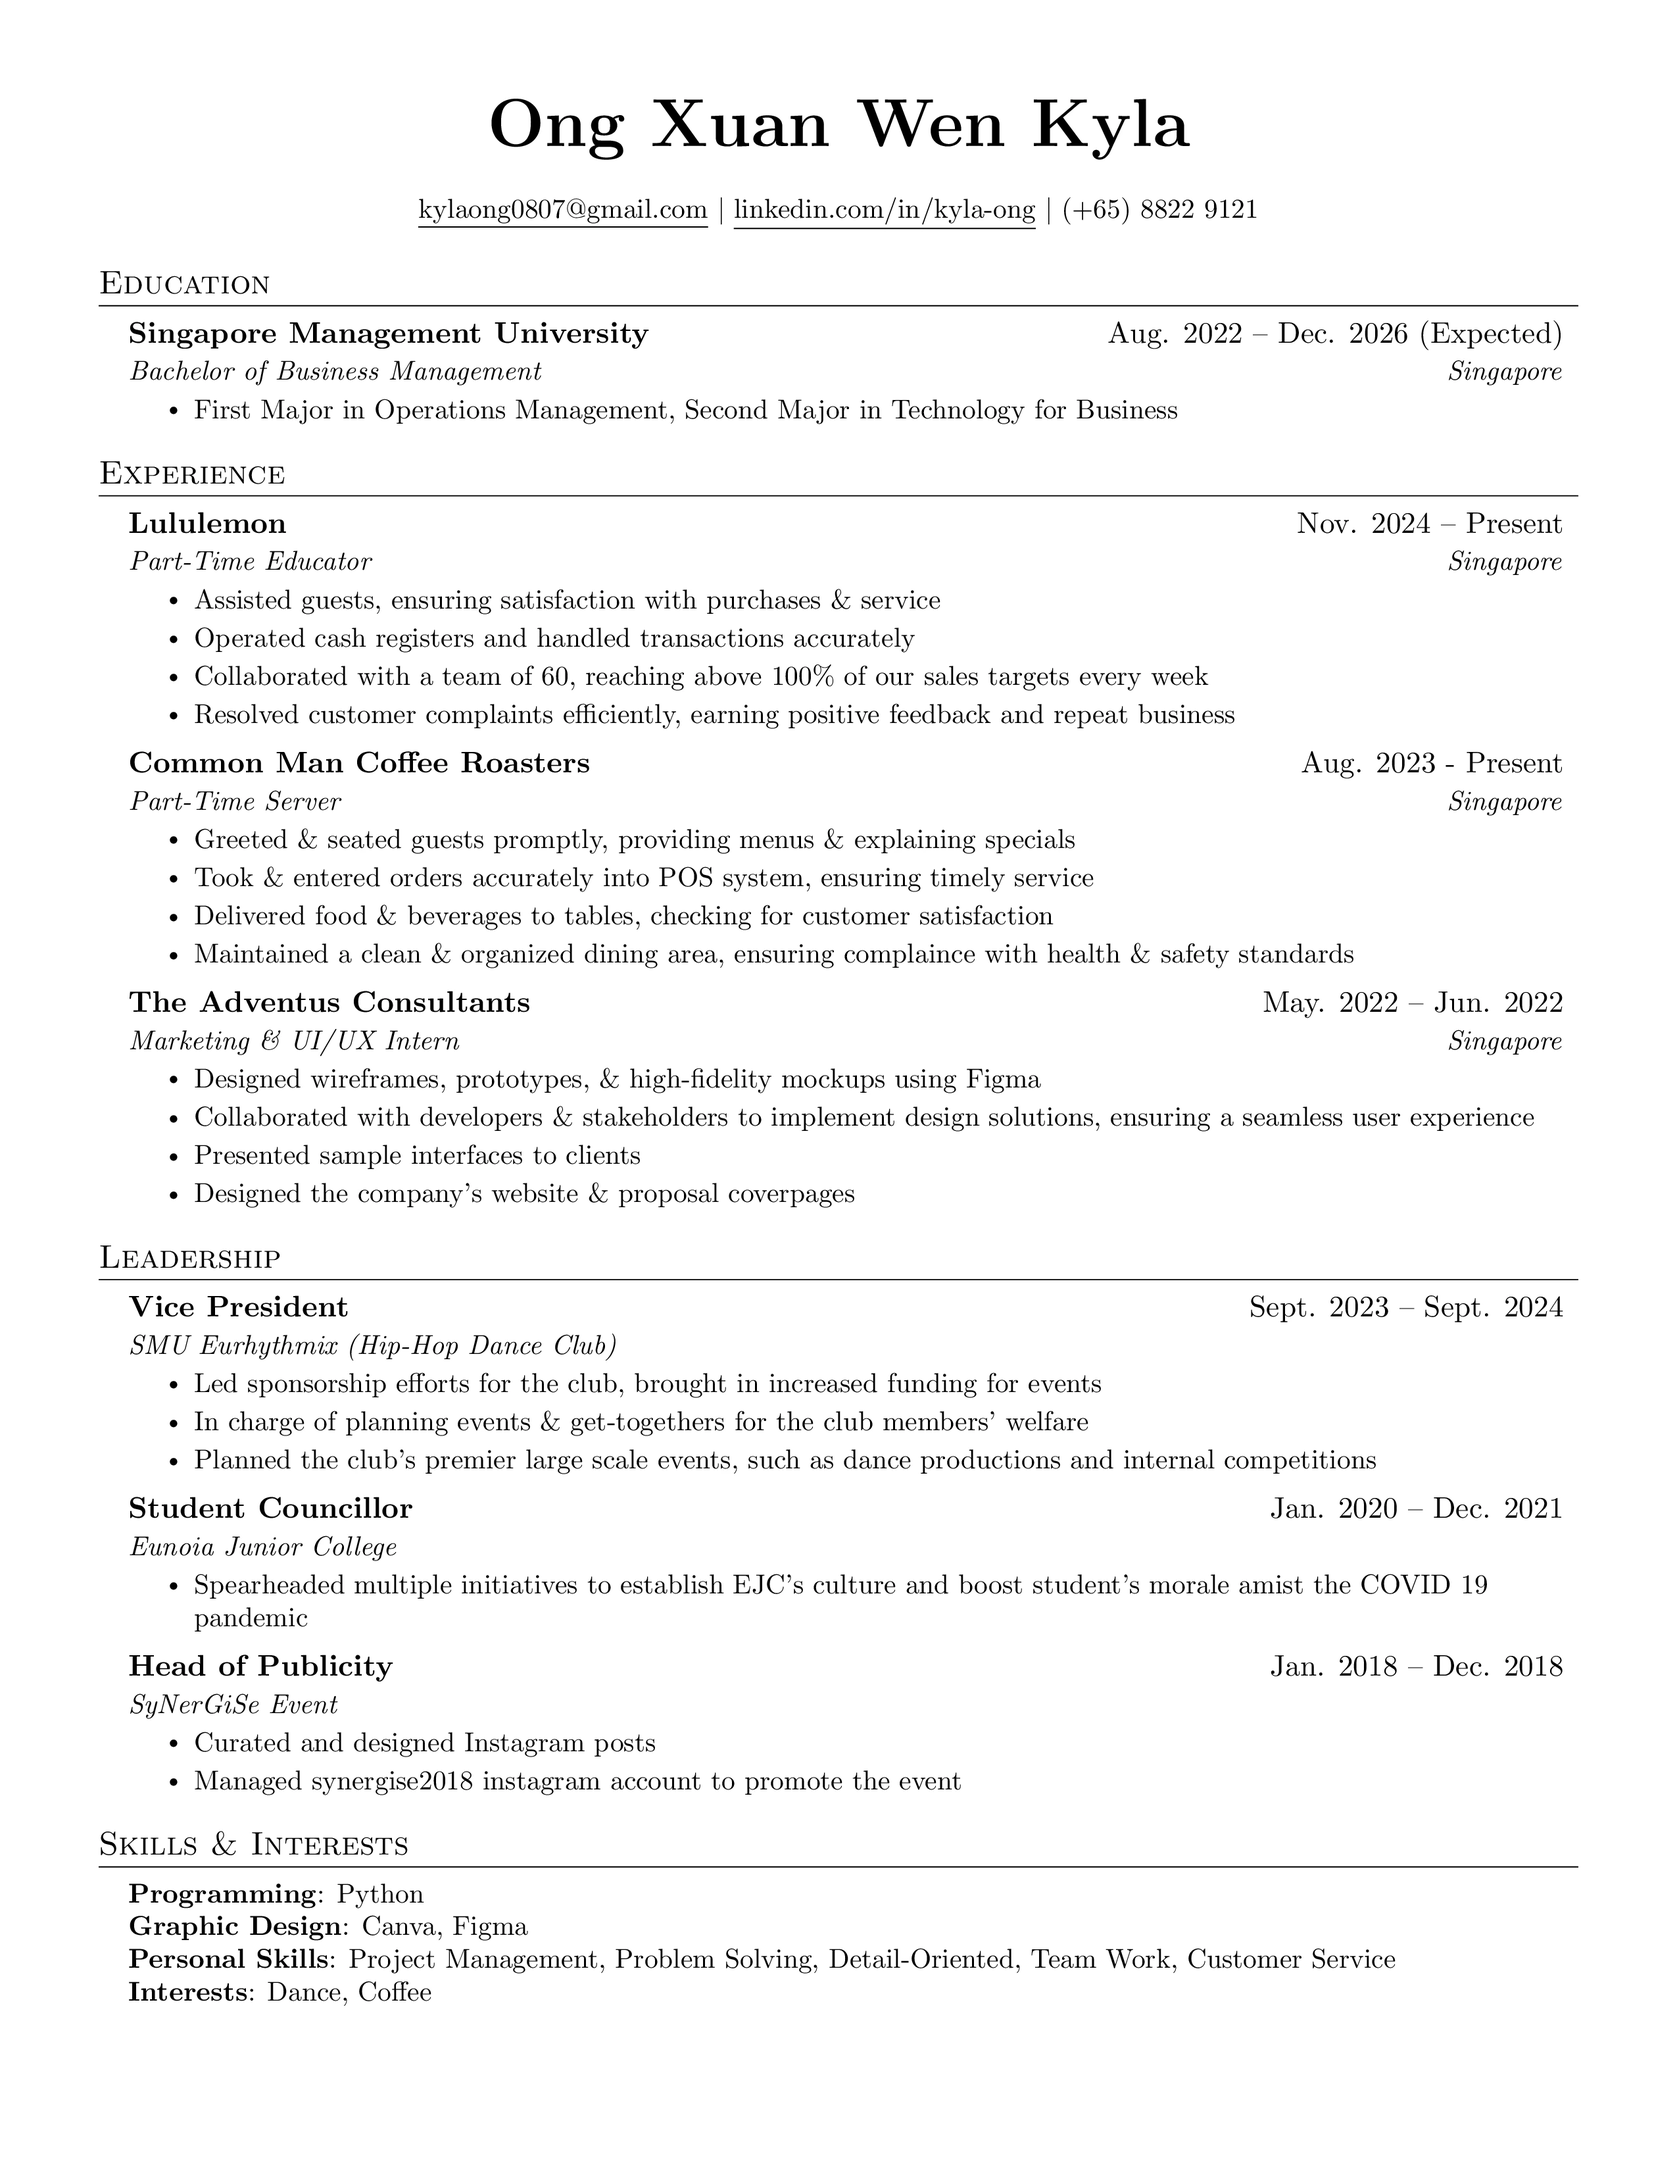
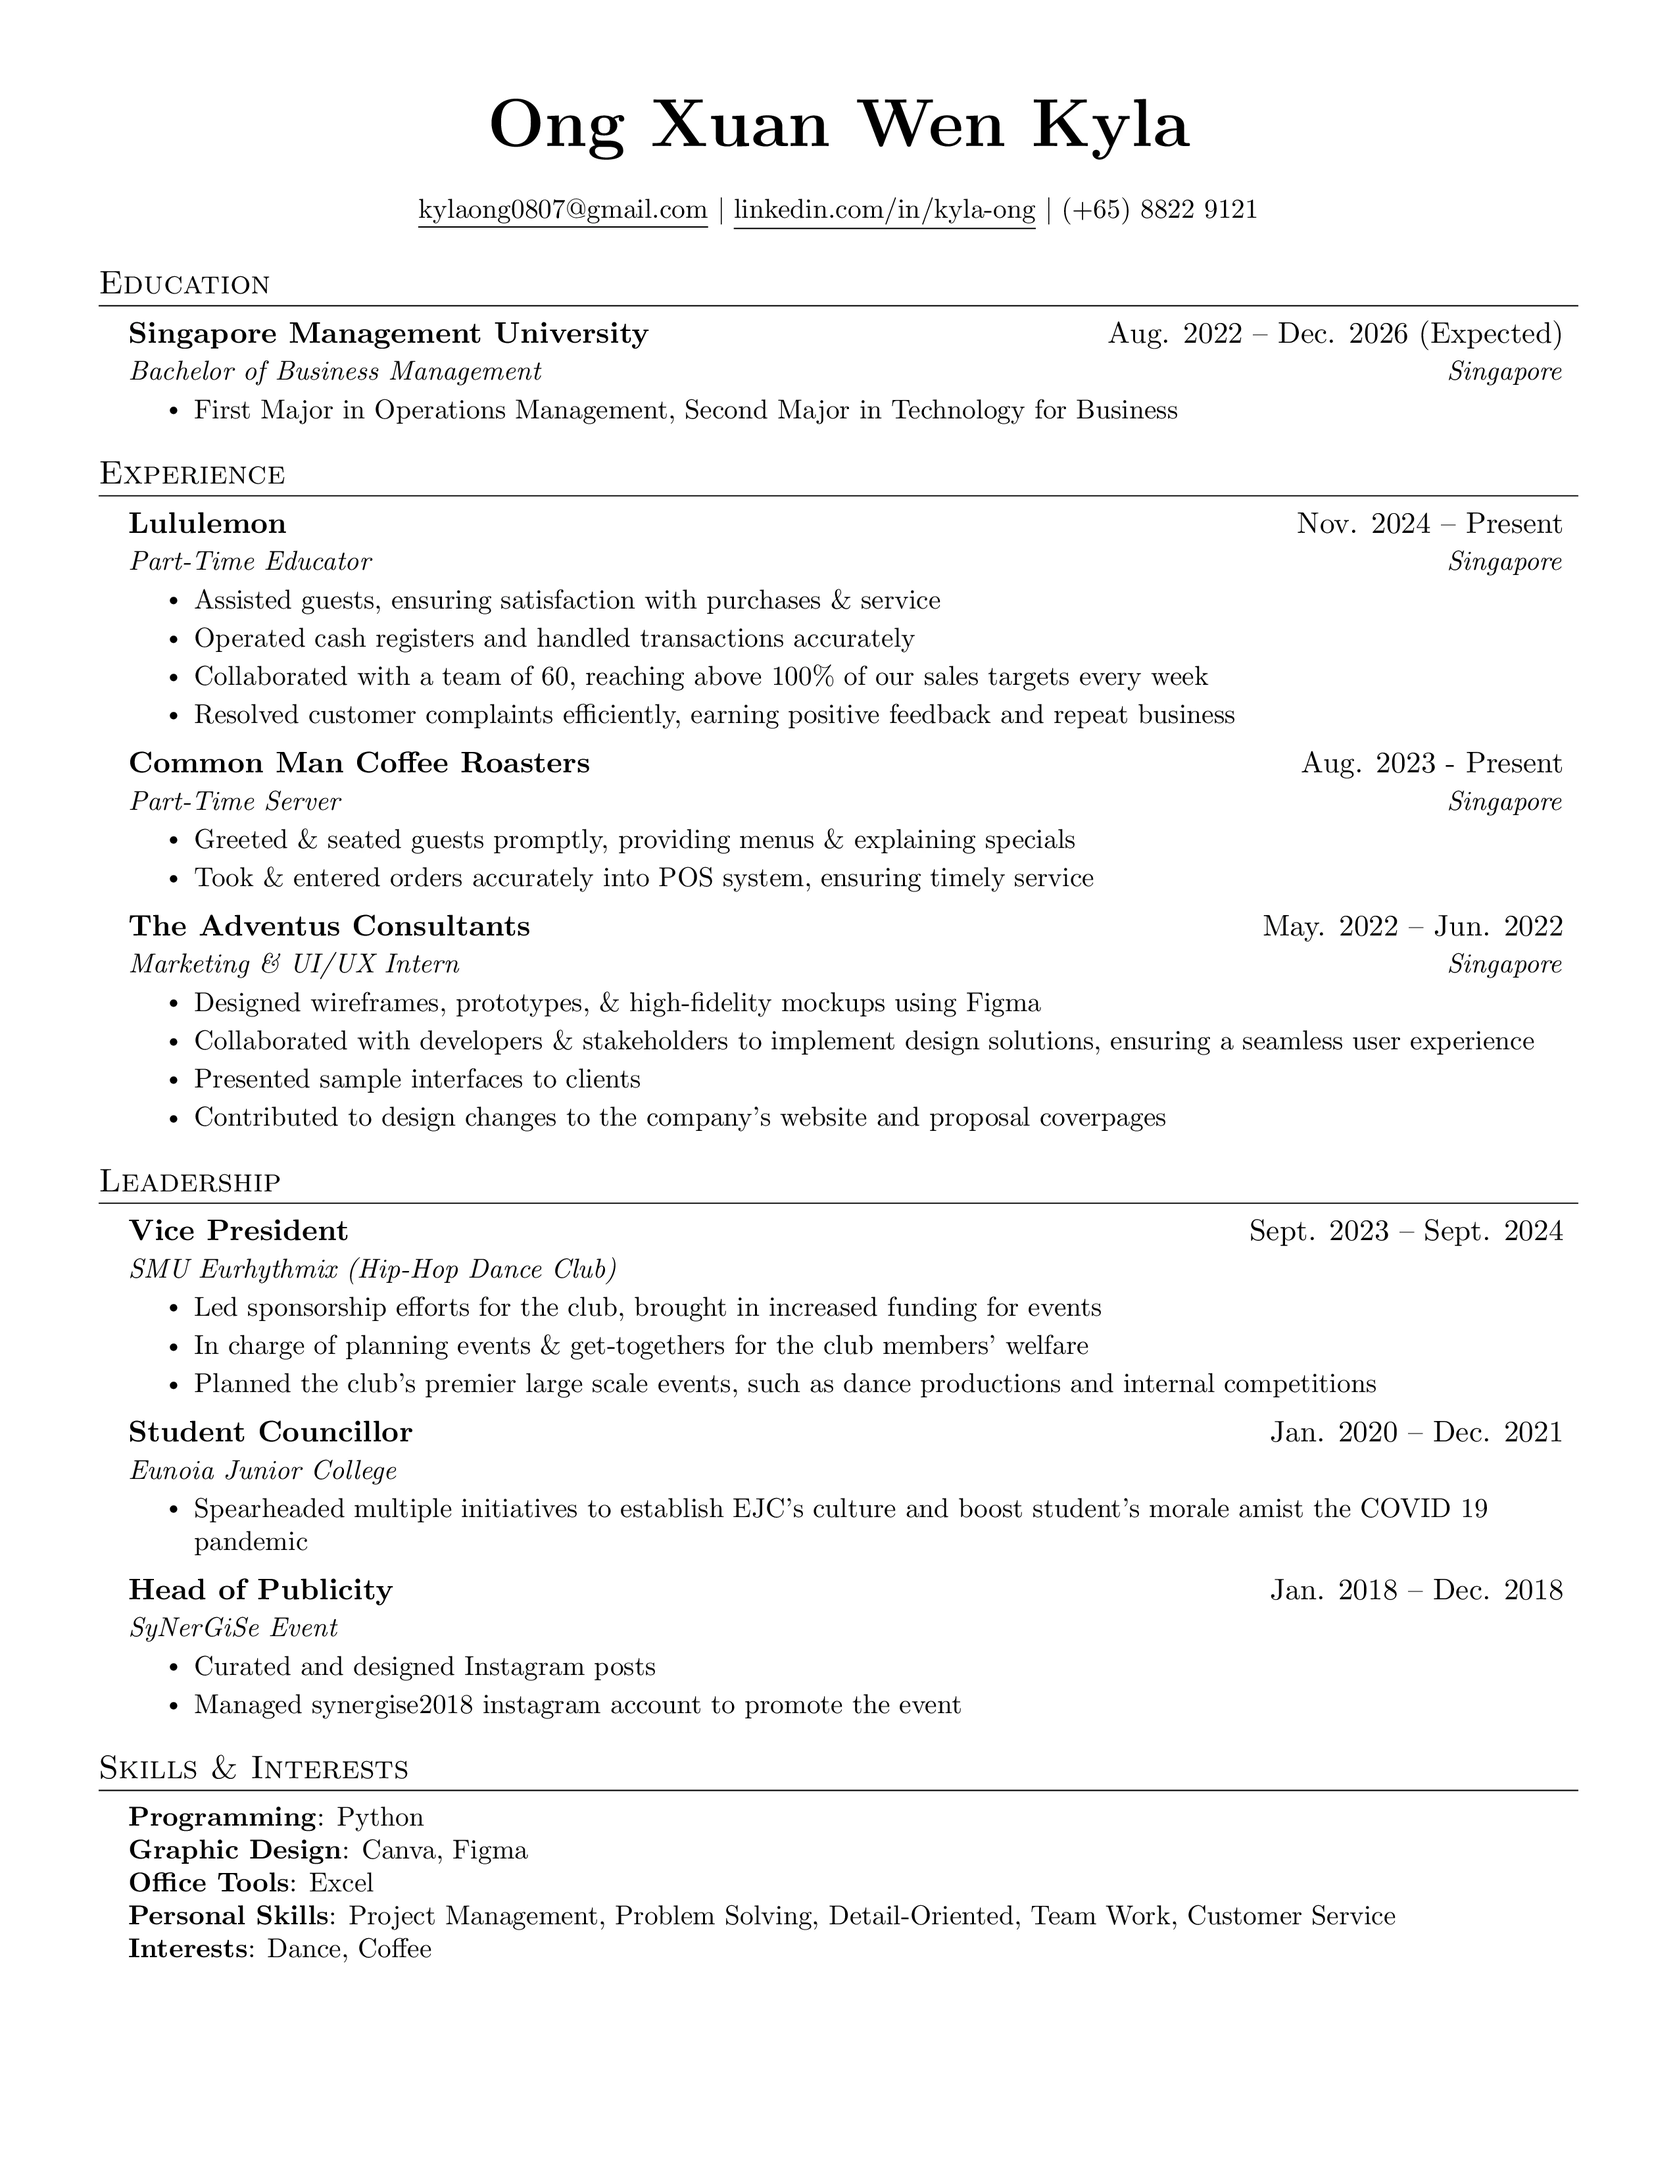
updated resume

diff --git a/kyla_resume.tex b/kyla_resume.tex
@@ -217,6 +217,7 @@
     \small{\item{
       {\textbf{Programming}}{: Python} \\
       {\textbf{Graphic Design}}{: Canva, Figma} \\
+      {\textbf{Office Tools}}{: Excel} \\
       {\textbf{Personal Skills}}{: Project Management, Problem Solving, Detail-Oriented, Team Work, Customer Service} \\
       {\textbf{Interests}}{: Dance, Coffee}
     }}
